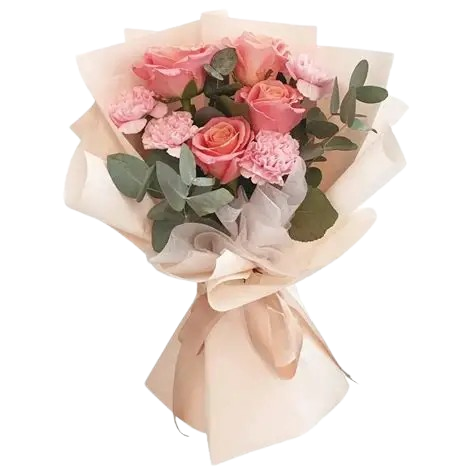
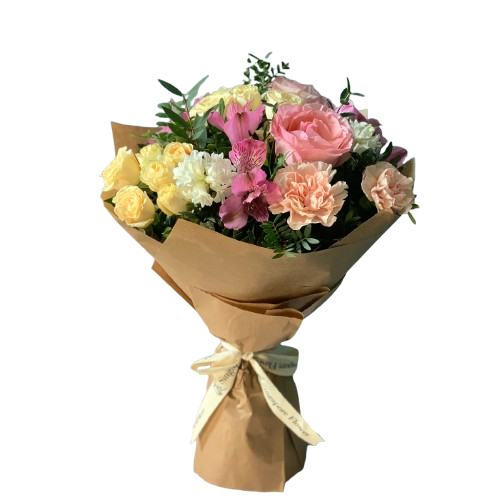
valentine offers and featured items

diff --git a/index.html b/index.html
@@ -413,7 +413,7 @@
                     <div
                         class="relative bg-stone-200 aspect-square rounded-sm overflow-hidden flex items-center justify-center p-6 transition-all duration-500 group-hover:scale-105 group-hover:shadow-md">
 
-                        <img src="assets/product4.png" alt="Rock Soapwort" class="max-w-full max-h-full object-contain">
+                        <img src="assets/product4.png" alt="Rock Soapwort" class="w-70 h-70 object-cover">
 
                     </div>
                     <div class="mt-4 space-y-1">
@@ -437,10 +437,234 @@
 
 
 
+    <!-- valentine offers -->
+    <section id="surprise-valentine" class="bg-white py-16 sm:py-20">
+        <div class="max-w-7xl mx-auto px-4 sm:px-6 lg:px-8">
+            <div class="grid grid-cols-1 lg:grid-cols-12 gap-12 items-center">
+
+                <div class="lg:col-span-6">
+                    <div class="relative rounded-sm overflow-hidden bg-gray-50 aspect-[4/3] sm:aspect-[16/11]">
+                        <img src="https://images.unsplash.com/photo-1526047932273-341f2a7631f9?q=80&w=1000&auto=format&fit=crop"
+                            alt="Suprise Your Valentine" class="w-full h-full object-cover"> alt="Suprise Your
+                        Valentine" class="w-full h-full object-cover">
+                    </div>
+                </div>
+
+                <div class="lg:col-span-6 space-y-6 text-left">
+
+                    <h2 class="text-3xl sm:text-4xl font-serif font-medium text-gray-900 leading-tight tracking-wide">
+                        Suprise Your Valentine! Let us arrange a smile For Her.
+                    </h2>
+
+                    <p class="text-xs sm:text-sm text-gray-500 leading-relaxed font-sans">
+                        Where flowers are our inspiration to create lasting memories. Whatever the occasion inspiration
+                        to create lasting memories....
+                    </p>
+
+                    <ul class="space-y-3 pt-2">
+                        <li class="flex items-center space-x-3 text-xs sm:text-sm text-gray-700">
+                            <span class="w-1.5 h-1.5 rounded-full bg-gray-800 shrink-0"></span>
+                            <span>Hand picked just for you.</span>
+                        </li>
+                        <li class="flex items-center space-x-3 text-xs sm:text-sm text-gray-700">
+                            <span class="w-1.5 h-1.5 rounded-full bg-gray-800 shrink-0"></span>
+                            <span>Hand picked just for you.</span>
+                        </li>
+                        <li class="flex items-center space-x-3 text-xs sm:text-sm text-gray-700">
+                            <span class="w-1.5 h-1.5 rounded-full bg-gray-800 shrink-0"></span>
+                            <span>Hand picked just for.</span>
+                        </li>
+                    </ul>
+
+                    <div class="pt-4">
+                        <a href="#"
+                            class="inline-block bg-[#f34f3f] text-white text-[11px] font-bold tracking-widest uppercase px-8 py-4 rounded-full hover:bg-gray-950 transition-colors duration-300 shadow-md">
+                            More Details
+                        </a>
+                    </div>
+
+                </div>
+
+            </div>
+        </div>
+    </section>
 
 
+    <!-- featured items -->
+    <section id="featured-items" class="bg-white py-16">
+        <div class="max-w-7xl mx-auto px-4 sm:px-6 lg:px-8">
 
+            <div class="text-center max-w-2xl mx-auto mb-6">
+                <h2 class="text-3xl sm:text-4xl font-serif font-medium text-gray-900 tracking-wide">Featured Items</h2>
+                <p class="text-xs sm:text-sm text-gray-500 mt-3 leading-relaxed">
+                    A perfect blend of creativity, energy, communication, happiness and love. Let us arrange a smile for
+                    you.
+                </p>
+            </div>
 
+            <div
+                class="flex justify-center items-center space-x-6 sm:space-x-8 text-[11px] sm:text-xs font-bold uppercase tracking-widest mb-12 border-b border-gray-100 pb-4">
+                <button class="text-[#f34f3f] border-b-2 border-[#f34f3f] pb-4 -mb-[18px] transition-all">New</button>
+                <button class="text-gray-400 hover:text-gray-900 pb-4 -mb-[18px] transition-all">Featured</button>
+                <button class="text-gray-400 hover:text-gray-900 pb-4 -mb-[18px] transition-all">Best Sellers</button>
+            </div>
+
+            <div class="grid grid-cols-1 sm:grid-cols-2 lg:grid-cols-4 gap-8">
+
+                <div class="group text-center">
+                    <div
+                        class="relative bg-[#f4f4f4] aspect-square rounded-sm overflow-hidden flex items-center justify-center transition-all duration-500 group-hover:scale-105 group-hover:shadow-md">
+                        <img src="https://images.unsplash.com/photo-1561181286-d3fee7d55364?q=80&w=600&auto=format&fit=crop"
+                            alt="Lity Majesty Palm" class="w-full h-full object-cover">
+                        <span
+                            class="absolute top-4 left-4 bg-gray-950 text-white text-[10px] font-bold uppercase tracking-wider px-3 py-1 rounded-full shadow-sm">-34%</span>
+                    </div>
+                    <div class="mt-4 space-y-1">
+                        <div class="flex justify-center text-amber-400 text-xs space-x-0.5"><i
+                                class="fa-solid fa-star"></i><i class="fa-solid fa-star"></i><i
+                                class="fa-solid fa-star"></i><i class="fa-solid fa-star"></i><i
+                                class="fa-regular fa-star text-gray-300"></i></div>
+                        <h3 class="font-serif font-medium text-gray-900 text-sm sm:text-base">Lity Majesty Palm</h3>
+                        <div class="flex justify-center items-center space-x-2 text-sm"><span
+                                class="text-[#f34f3f] font-bold">$19.00</span><span
+                                class="text-gray-400 line-through text-xs">$29.00</span></div>
+                    </div>
+                </div>
+
+                <div class="group text-center">
+                    <div
+                        class="relative bg-[#f4f4f4] aspect-square rounded-sm overflow-hidden flex items-center justify-center transition-all duration-500 group-hover:scale-105 group-hover:shadow-md">
+                        <img src="https://images.unsplash.com/photo-1526047932273-341f2a7631f9?q=80&w=600&auto=format&fit=crop"
+                            alt="Wild Roses" class="w-full h-full object-cover">
+                        <span
+                            class="absolute top-4 left-4 bg-gray-950 text-white text-[10px] font-bold uppercase tracking-wider px-3 py-1 rounded-full shadow-sm">-10%</span>
+                    </div>
+                    <div class="mt-4 space-y-1">
+                        <div class="flex justify-center text-amber-400 text-xs space-x-0.5"><i
+                                class="fa-solid fa-star"></i><i class="fa-solid fa-star"></i><i
+                                class="fa-solid fa-star"></i><i class="fa-solid fa-star"></i><i
+                                class="fa-regular fa-star text-gray-300"></i></div>
+                        <h3 class="font-serif font-medium text-gray-900 text-sm sm:text-base">Wild Roses</h3>
+                        <div class="flex justify-center items-center space-x-2 text-sm"><span
+                                class="text-[#f34f3f] font-bold">$19.00</span><span
+                                class="text-gray-400 line-through text-xs">$21.00</span></div>
+                    </div>
+                </div>
+
+                <div class="group text-center">
+                    <div
+                        class="relative bg-[#f4f4f4] aspect-square rounded-sm overflow-hidden flex items-center justify-center transition-all duration-500 group-hover:scale-105 group-hover:shadow-md">
+                        <img src="https://images.unsplash.com/photo-1533616688419-b7a585564566?q=80&w=600&auto=format&fit=crop"
+                            alt="Spring Snowflake" class="w-full h-full object-cover">
+                        <span
+                            class="absolute top-4 left-4 bg-[#f34f3f] text-white text-[10px] font-bold uppercase tracking-wider px-3 py-1 rounded-full shadow-sm">Soldout</span>
+                    </div>
+                    <div class="mt-4 space-y-1">
+                        <div class="flex justify-center text-amber-400 text-xs space-x-0.5"><i
+                                class="fa-solid fa-star"></i><i class="fa-solid fa-star"></i><i
+                                class="fa-solid fa-star"></i><i class="fa-solid fa-star"></i><i
+                                class="fa-regular fa-star text-gray-300"></i></div>
+                        <h3 class="font-serif font-medium text-gray-900 text-sm sm:text-base">Spring Snowflake</h3>
+                        <div class="flex justify-center items-center space-x-2 text-sm"><span
+                                class="text-[#f34f3f] font-bold">$19.00</span><span
+                                class="text-gray-400 line-through text-xs">$29.00</span></div>
+                    </div>
+                </div>
+
+                <div class="group text-center">
+                    <div
+                        class="relative bg-[#f4f4f4] aspect-square rounded-sm overflow-hidden flex items-center justify-center transition-all duration-500 group-hover:scale-105 group-hover:shadow-md">
+                        <img src="https://images.unsplash.com/photo-1525310072745-f49212b5ac6d?q=80&w=600&auto=format&fit=crop"
+                            alt="Rock Soapwort" class="w-full h-full object-cover">
+                        <span
+                            class="absolute top-4 left-4 bg-gray-950 text-white text-[10px] font-bold uppercase tracking-wider px-3 py-1 rounded-full shadow-sm">-27%</span>
+                    </div>
+                    <div class="mt-4 space-y-1">
+                        <div class="flex justify-center text-amber-400 text-xs space-x-0.5"><i
+                                class="fa-solid fa-star"></i><i class="fa-solid fa-star"></i><i
+                                class="fa-solid fa-star"></i><i class="fa-solid fa-star"></i><i
+                                class="fa-regular fa-star text-gray-300"></i></div>
+                        <h3 class="font-serif font-medium text-gray-900 text-sm sm:text-base">Rock Soapwort</h3>
+                        <div class="flex justify-center items-center space-x-2 text-sm"><span
+                                class="text-[#f34f3f] font-bold">$55.00</span><span
+                                class="text-gray-400 line-through text-xs">$75.00</span></div>
+                    </div>
+                </div>
+
+                <div class="group text-center">
+                    <div
+                        class="relative bg-[#f4f4f4] aspect-square rounded-sm overflow-hidden flex items-center justify-center transition-all duration-500 group-hover:scale-105 group-hover:shadow-md">
+                        <img src="https://images.unsplash.com/photo-1572451479139-6a308211d8be?q=80&w=600&auto=format&fit=crop"
+                            alt="Sweet Alyssum" class="w-full h-full object-cover">
+                    </div>
+                    <div class="mt-4 space-y-1">
+                        <div class="flex justify-center text-amber-400 text-xs space-x-0.5"><i
+                                class="fa-solid fa-star"></i><i class="fa-solid fa-star"></i><i
+                                class="fa-solid fa-star"></i><i class="fa-solid fa-star"></i><i
+                                class="fa-regular fa-star text-gray-300"></i></div>
+                        <h3 class="font-serif font-medium text-gray-900 text-sm sm:text-base">Sweet Alyssum</h3>
+                        <div class="text-sm"><span class="text-[#f34f3f] font-bold">$50.00</span></div>
+                    </div>
+                </div>
+
+                <div class="group text-center">
+                    <div
+                        class="relative bg-[#f4f4f4] aspect-square rounded-sm overflow-hidden flex items-center justify-center transition-all duration-500 group-hover:scale-105 group-hover:shadow-md">
+                        <img src="https://images.unsplash.com/photo-1470509037663-253afd7f0f51?w=500&auto=format&fit=crop&q=60&ixlib=rb-4.1.0&ixid=M3wxMjA3fDB8MHxzZWFyY2h8Nnx8Zmxvd2VyJTIwd2FsbHBhcGVyfGVufDB8fDB8fHww"
+                            alt="Summer Savory" class="w-full h-full object-cover"> <span
+                            class="absolute top-4 left-4 bg-gray-950 text-white text-[10px] font-bold uppercase tracking-wider px-3 py-1 rounded-full shadow-sm">-18%</span>
+                    </div>
+                    <div class="mt-4 space-y-1">
+                        <div class="flex justify-center text-amber-400 text-xs space-x-0.5"><i
+                                class="fa-solid fa-star"></i><i class="fa-solid fa-star"></i><i
+                                class="fa-solid fa-star"></i><i class="fa-solid fa-star"></i><i
+                                class="fa-regular fa-star text-gray-300"></i></div>
+                        <h3 class="font-serif font-medium text-gray-900 text-sm sm:text-base">Summer Savory</h3>
+                        <div class="flex justify-center items-center space-x-2 text-sm"><span
+                                class="text-[#f34f3f] font-bold">$40.00</span><span
+                                class="text-gray-400 line-through text-xs">$85.00</span></div>
+                    </div>
+                </div>
+
+                <div class="group text-center">
+                    <div
+                        class="relative bg-[#f4f4f4] aspect-square rounded-sm overflow-hidden flex items-center justify-center transition-all duration-500 group-hover:scale-105 group-hover:shadow-md">
+                        <img src="https://plus.unsplash.com/premium_photo-1676475964992-6404b8db0b53?w=500&auto=format&fit=crop&q=60&ixlib=rb-4.1.0&ixid=M3wxMjA3fDB8MHxzZWFyY2h8MTN8fGZsb3dlcnxlbnwwfHwwfHx8MA%3D%3D"
+                            alt="Rock Soapwort" class="w-full h-full object-cover">
+                    </div>
+                    <div class="mt-4 space-y-1">
+                        <div class="flex justify-center text-amber-400 text-xs space-x-0.5"><i
+                                class="fa-solid fa-star"></i><i class="fa-solid fa-star"></i><i
+                                class="fa-solid fa-star"></i><i class="fa-solid fa-star"></i><i
+                                class="fa-regular fa-star text-gray-300"></i></div>
+                        <h3 class="font-serif font-medium text-gray-900 text-sm sm:text-base">Rock Soapwort</h3>
+                        <div class="text-sm"><span class="text-[#f34f3f] font-bold">$50.00</span></div>
+                    </div>
+                </div>
+
+                <div class="group text-center">
+                    <div
+                        class="relative bg-[#f4f4f4] aspect-square rounded-sm overflow-hidden flex items-center justify-center transition-all duration-500 group-hover:scale-105 group-hover:shadow-md">
+                        <img src="https://images.unsplash.com/photo-1508610048659-a06b669e3321?q=80&w=600&auto=format&fit=crop"
+                            alt="Majesty Palm" class="w-full h-full object-cover">
+                        <span
+                            class="absolute top-4 left-4 bg-[#f34f3f] text-white text-[10px] font-bold uppercase tracking-wider px-3 py-1 rounded-full shadow-sm">Soldout</span>
+                    </div>
+                    <div class="mt-4 space-y-1">
+                        <div class="flex justify-center text-amber-400 text-xs space-x-0.5"><i
+                                class="fa-solid fa-star"></i><i class="fa-solid fa-star"></i><i
+                                class="fa-solid fa-star"></i><i class="fa-solid fa-star"></i><i
+                                class="fa-regular fa-star text-gray-300"></i></div>
+                        <h3 class="font-serif font-medium text-gray-900 text-sm sm:text-base">Majesty Palm</h3>
+                        <div class="flex justify-center items-center space-x-2 text-sm"><span
+                                class="text-[#f34f3f] font-bold">$19.00</span><span
+                                class="text-gray-400 line-through text-xs">$29.00</span></div>
+                    </div>
+                </div>
+
+            </div>
+        </div>
+    </section>
 
 
 